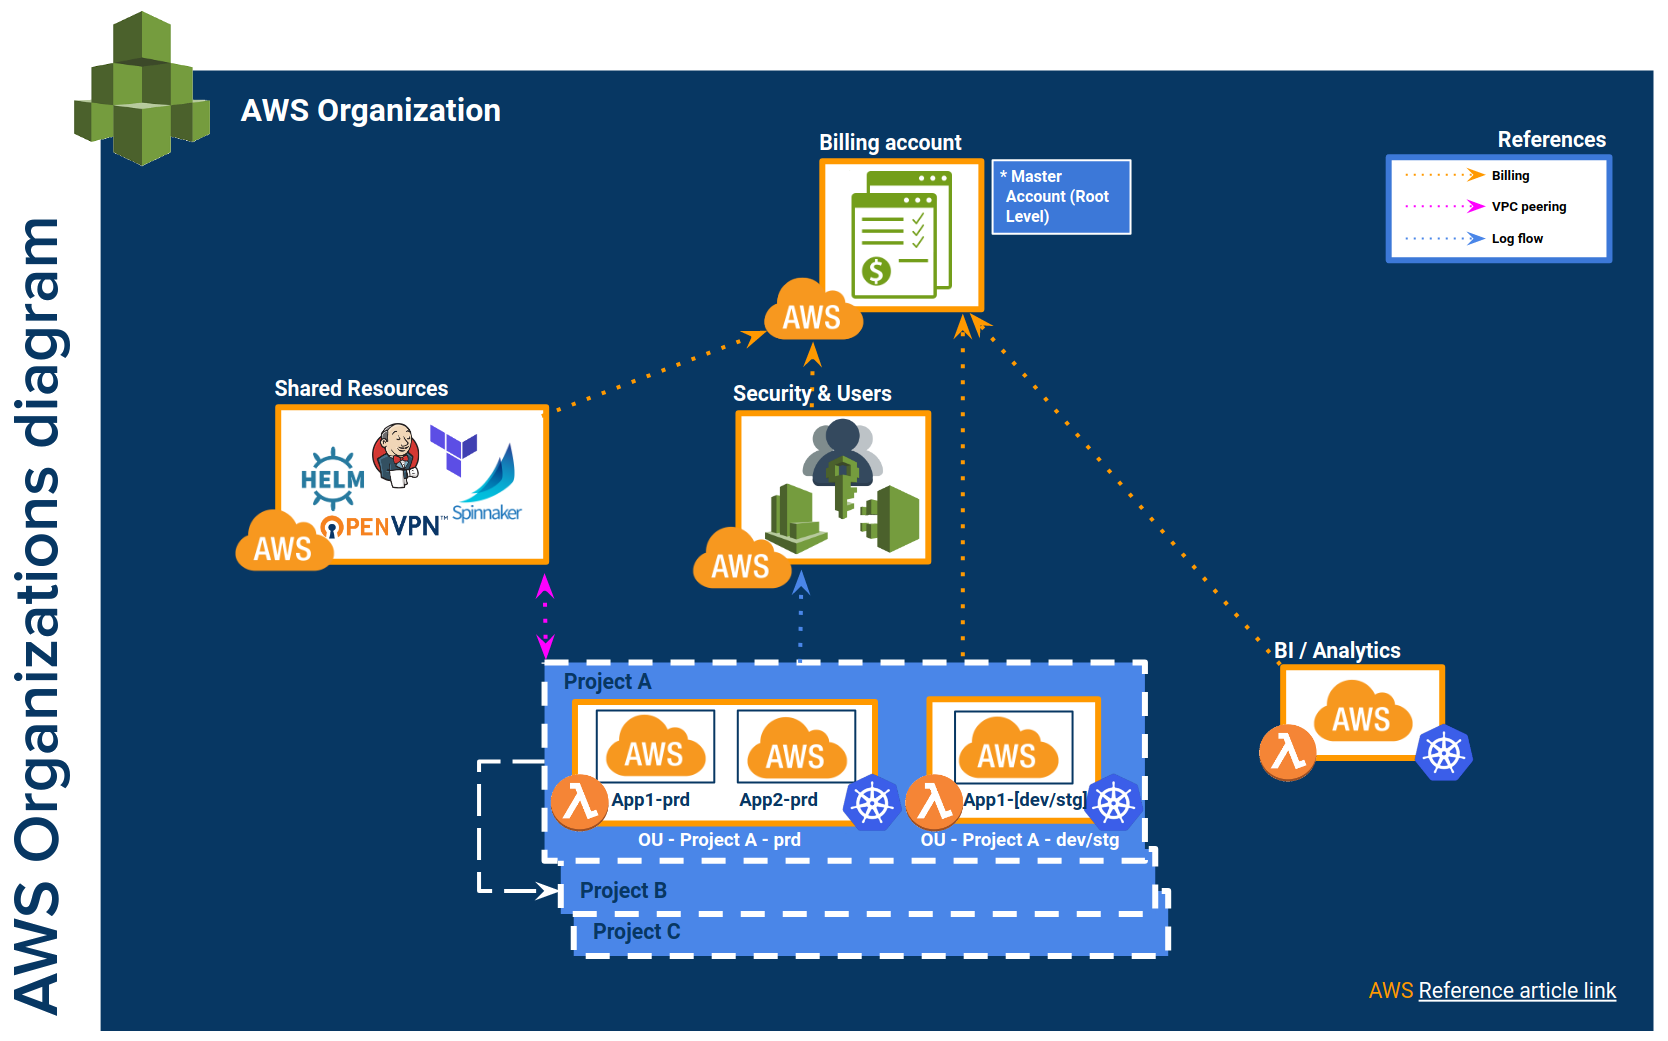
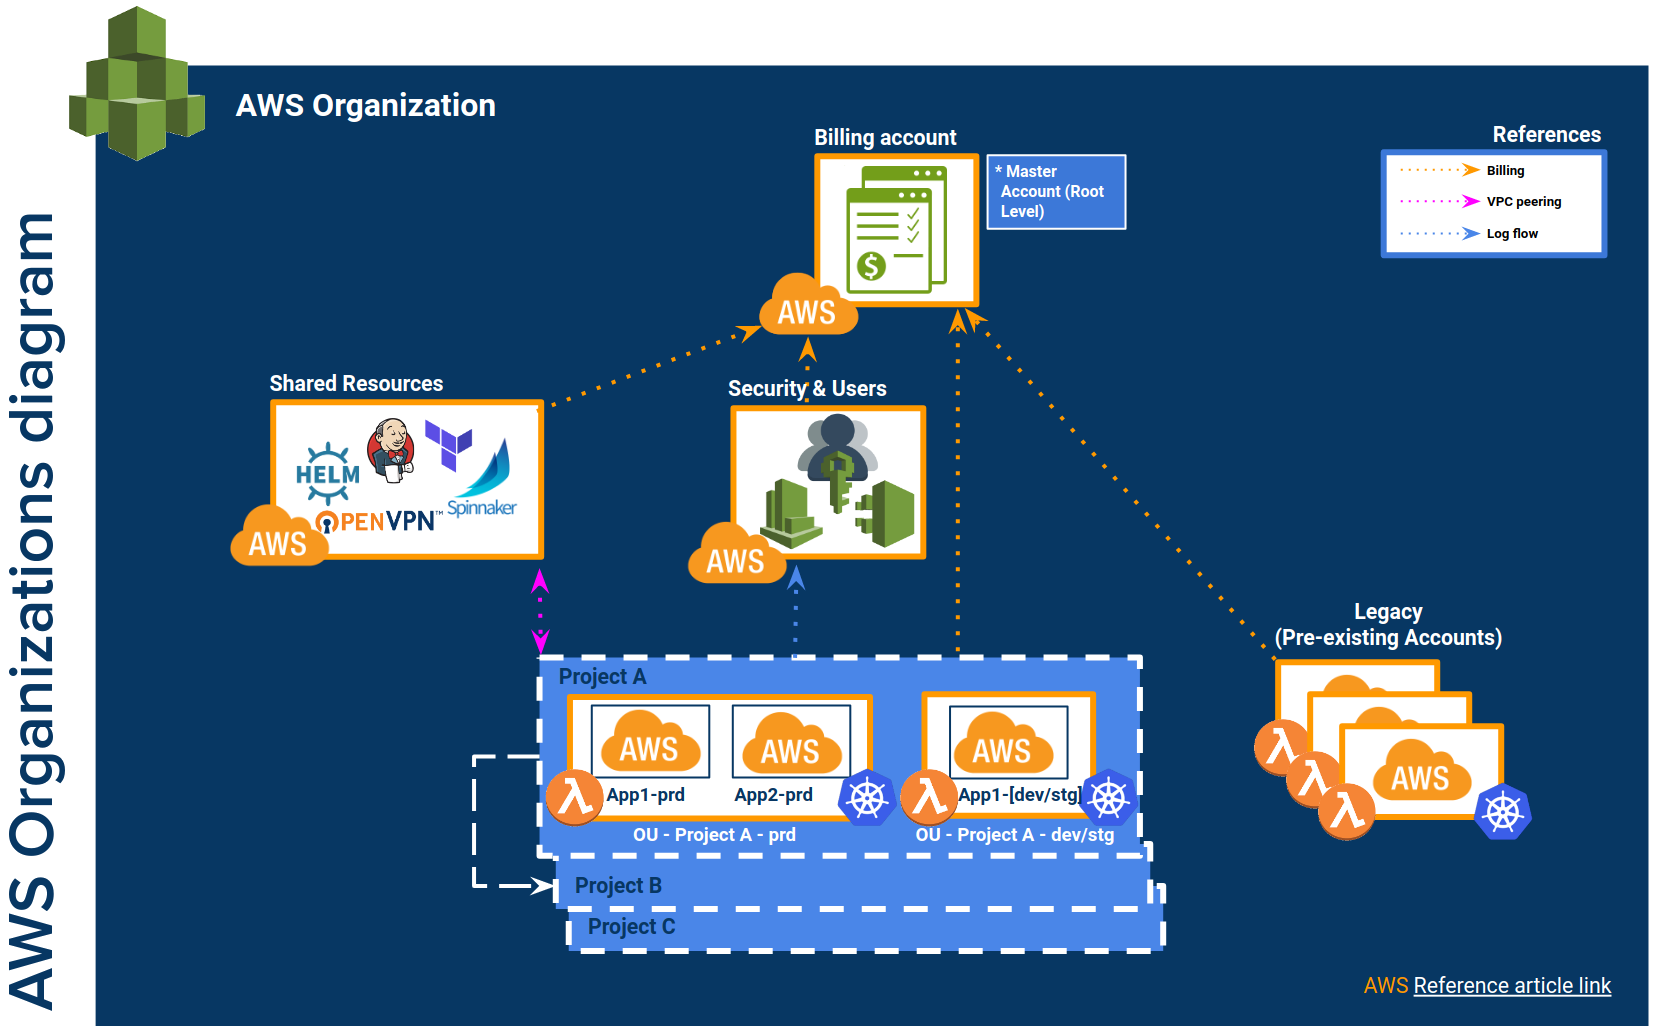
BBL-41 Improving README.md with greater detail about AWS Organizations features, strenghs and considerations

diff --git a/README.md b/README.md
@@ -47,7 +47,7 @@ Our default AWS Organizations terraform layout solution includes 5 accounts + 1 
 | Root Organizations          | Used to manage configuration and access to AWS Org managed accounts. The AWS Organizations account provides the ability to create and financially manage member accounts, it contains AWS Organizations Service Control Policies(SCPs).                                                    |
 | Shared Services / Resources | Reference for creating infrastructure shared services such as directory services, DNS, VPN Solution, Monitoring tools like Prometheus and Graphana, CI/CD server (Jenkins, Drone, Spinnaker, etc), centralized logging solution like ELK  and Vault Server (Hashicorp Vault)               |
 | Security                    | Intended for centralized user mamangement via IAM roles based cross-org auth approach (IAM roles per account to be assumed still needed. Also to centralize AWS CloudTrail and AWS Config logs, and used as the master AWS GuardDuty Account                                               |
-| Legacy                      | Your pre existing AWS Accounts to be invited as memebers of the new AWS Organization, probably several services and workloads are going to be progressively migrated to your new Accounts.                                                                                                 |
+| Legacy                      | Your pre existing AWS Accounts to be invited as members of the new AWS Organization, probably several services and workloads are going to be progressively migrated to your new Accounts.                                                                                                  |
 | Apps DevStg                 | Host your DEV, QA and STG environment workloads Compute / Web App Servers (K8s Clusters and Lambda Functions), Load Balancers, DB Servers, Caching Services, Job queues & Servers, Data, Storage, CDN                                                                                      |
 | Apps Prod                   | Host your PROD environment workloads Compute / Web App Servers (K8s Clusters and Lambda Functions), Load Balancers, DB Servers, Caching Services, Job queues & Servers, Data, Storage, CDN                                                                                                 |
 
@@ -65,12 +65,27 @@ AWS services are available within different accounts.
  everything with private endpoints only accessible vía Pritunl VPN significantly reducing the surface of attack.
 - **User Mgmt:** You can manage all your IAM resources (users/groups/roles) and policies in one 
 place (usually, security/users account) and use AssumeRole to works with org accounts.
-- **Operation:** Will reduce the **blast radius** to the maximum possible.   
-- **Compatibility:** Legacy accounts can be invited as a member of the new Organization.
-
+- **Operations:** Will reduce the **blast radius** to the maximum possible.   
+- **Compatibility:** Legacy accounts can be invited (https://docs.aws.amazon.com/organizations/latest/userguide/orgs_manage_accounts_invites.html) as a
+ member of the new Organization and afterwards even imported into your terraform code (https://www.terraform.io/docs/providers/aws/r/organizations_account.html#import).
+- **Migration:** After having your baseline AWS Org reference cloud solutions architecture deployed (IAM, VPC, NACLS, VPC-Peering, DNS Cross-Org,
+ CloudTrail, etc.) you're ready to start progressively orchestrating new resources in order to segregate different Environment and Services per account.
+ This approach will allow you to start a **1 by 1 Blue/Green (Red/Black) migration without affecting any of your services at all**. You would like to take
+ advantage of an Active-Active DNS switchover approach (nice as DR exercise too). 
+    - Eg: Jenkins CI Server Migration steps:
+      1. Let's say you have your EC2_A (`jenkins.aws.domain.com`), so you could deploy a brand new EC2_B Jenkins Instance.
+      2. Temporally associated with `jenkins2.aws.domain.com`
+      3. Sync it's current data (`/var/lib/jenkins`)
+      4. Test and fully validate every job and pipeline works as expected.
+      5. In case you haven't finished your validations we highly recommend to declare everything as code and fully automated 
+      so as to destroy and re-create your under development env on demand to save costs.
+      6. Finally switch `jenkins2.aws.domain.com` -> to -> `jenkins.aws.domain.com`
+      7. Stop your old EC2_A.
+      8. If everything looks fine after after 2/4 weeks you could terminate your EC2_A (hope everything is as code and just `terraform destroy`)
+      9. Considering the previously detailed steps plan your roadmap to move forward with every other component to be migrated.
 
 ### AWS reference links
-Consider the following AWS official links as reference since the AWS Organization structure:
+Consider the following AWS official links as reference:
 
 - **AWS Multiple Account Security Strategy:** https://aws.amazon.com/answers/account-management/aws-multi-account-security-strategy/
 - **AWS Multiple Account Billing Strategy:** https://aws.amazon.com/answers/account-management/aws-multi-account-billing-strategy/
@@ -80,7 +95,7 @@ https://docs.aws.amazon.com/organizations/latest/userguide/orgs_permissions.html
 
 ## TODO
 
-Develop a Terraform 0.12 compatible module: `terraform-aws-organizations` https://registry.terraform.io/modules/binbashar
+Develop a Terraform 0.12 compatible module: `terraform-aws-organizations` -> https://registry.terraform.io/modules/binbashar
 
 ---
 
